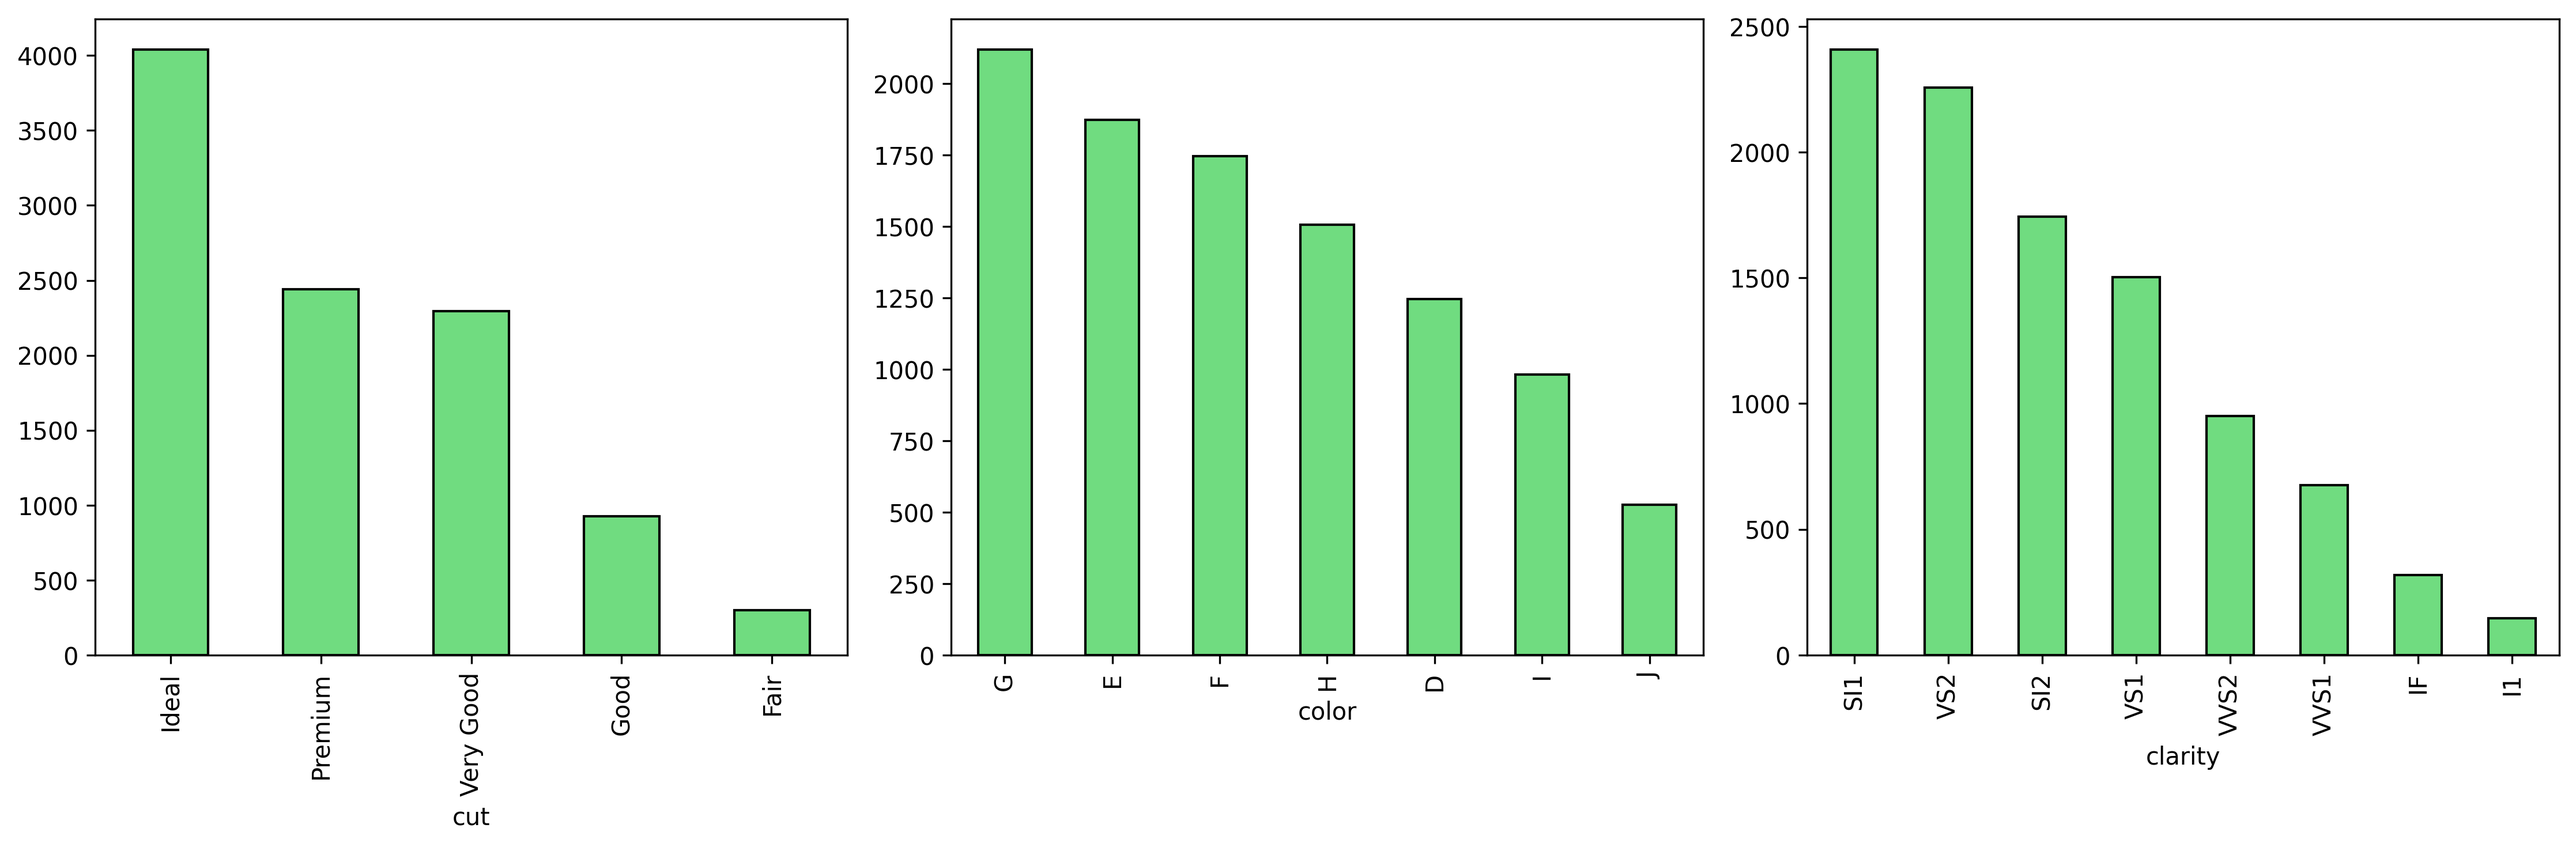
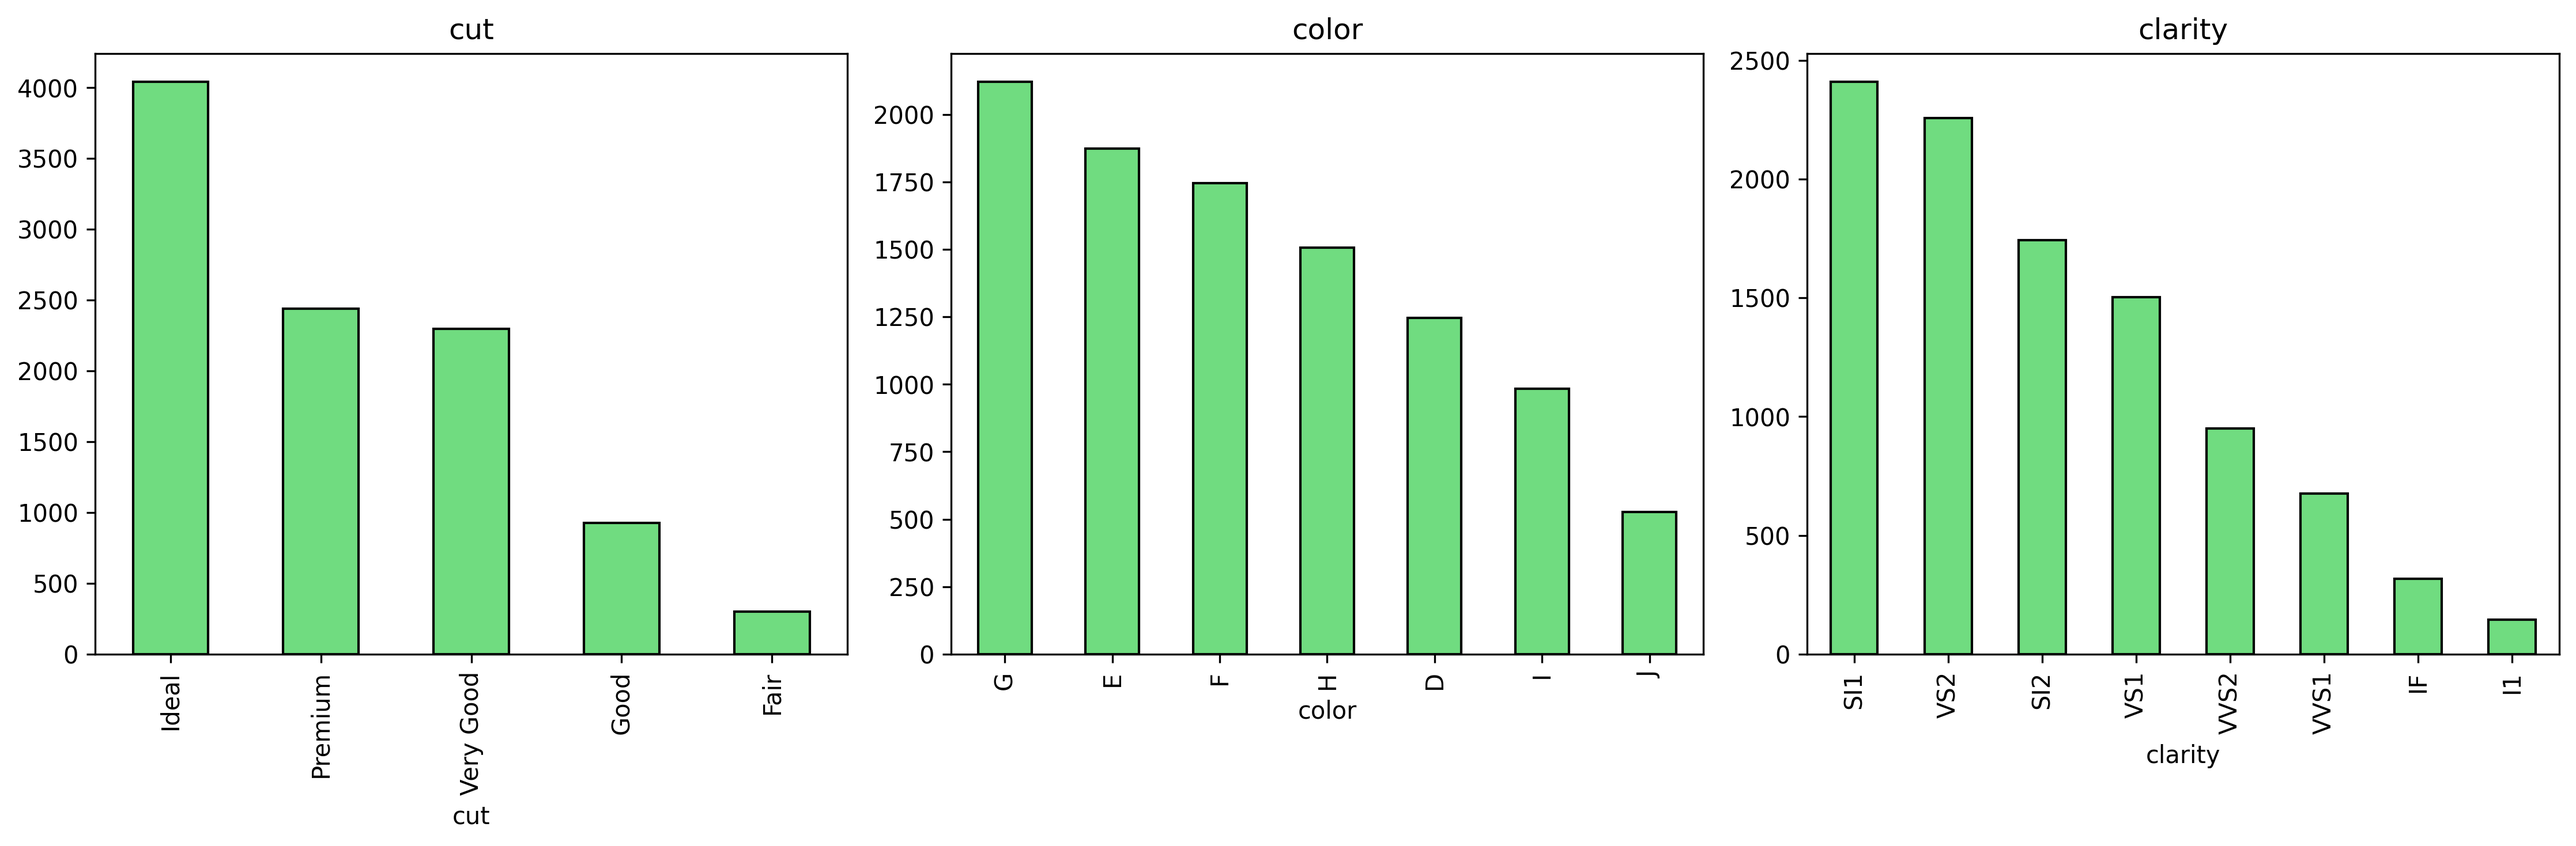
update plots

diff --git a/data_analysis.py b/data_analysis.py
@@ -91,7 +91,7 @@ for i, col in enumerate(skewed_numeric_features):
  
     adjust_text(texts, ax=ax[i])
  
-
+fig.suptitle("Box Plots of Skewed Numeric Features", fontsize=14)
 plt.tight_layout()
 fig.savefig("plots/boxplots.png", dpi=300)
 
@@ -99,7 +99,7 @@ fig.savefig("plots/boxplots.png", dpi=300)
 
 fig, ax = plt.subplots(figsize=(12, 5))
 ax.hist(train_data['outcome'], bins=40, edgecolor='black', color="#70dc80")
-ax.set_title(f'Outcome')
+ax.set_title('Outcome Distribution')
 
 plt.tight_layout()
 fig.savefig("plots/outcome.png", dpi=300)
@@ -139,6 +139,7 @@ fig.savefig("plots/nonskewed_histograms.png", dpi=300, bbox_inches="tight")
 fig, ax = plt.subplots(1, len(categorical_columns), figsize=(15, 5))
 for i, col in enumerate(categorical_columns):
     train_data[col].value_counts().plot(kind='bar', ax=ax[i], edgecolor='black', color="#70dc80")
+    ax[i].set_title(col)
 
 plt.tight_layout()
 fig.savefig("plots/categorical_barchart.png", dpi=300, bbox_inches="tight")
@@ -158,6 +159,7 @@ fig.savefig("plots/correlation_outcome_barchart.png", dpi=300, bbox_inches="tigh
 fig, ax = plt.subplots(figsize=(8, 6))
 mask = np.triu(np.ones_like(feature_col, dtype=bool))
 sns.heatmap(feature_col, mask=mask, annot=True, cmap='coolwarm', center=0, ax=ax)
+ax.set_title("Multicollinearity: Skewed Features")
 fig.savefig("plots/correlation_heatmap.png", dpi=300, bbox_inches="tight")
 
 
@@ -166,6 +168,7 @@ fig.savefig("plots/correlation_heatmap.png", dpi=300, bbox_inches="tight")
 fig, ax = plt.subplots(figsize=(16, 12))
 corr_matrix = train_onehot[all_features].corr() # type: ignore
 sns.heatmap(corr_matrix, annot=False, cmap='coolwarm', center=0, ax=ax)
+ax.set_title("Multicollinearity: All Features")
 fig.tight_layout()
 fig.savefig("plots/correlation_heatmap_all.png", dpi=300, bbox_inches="tight")
 
